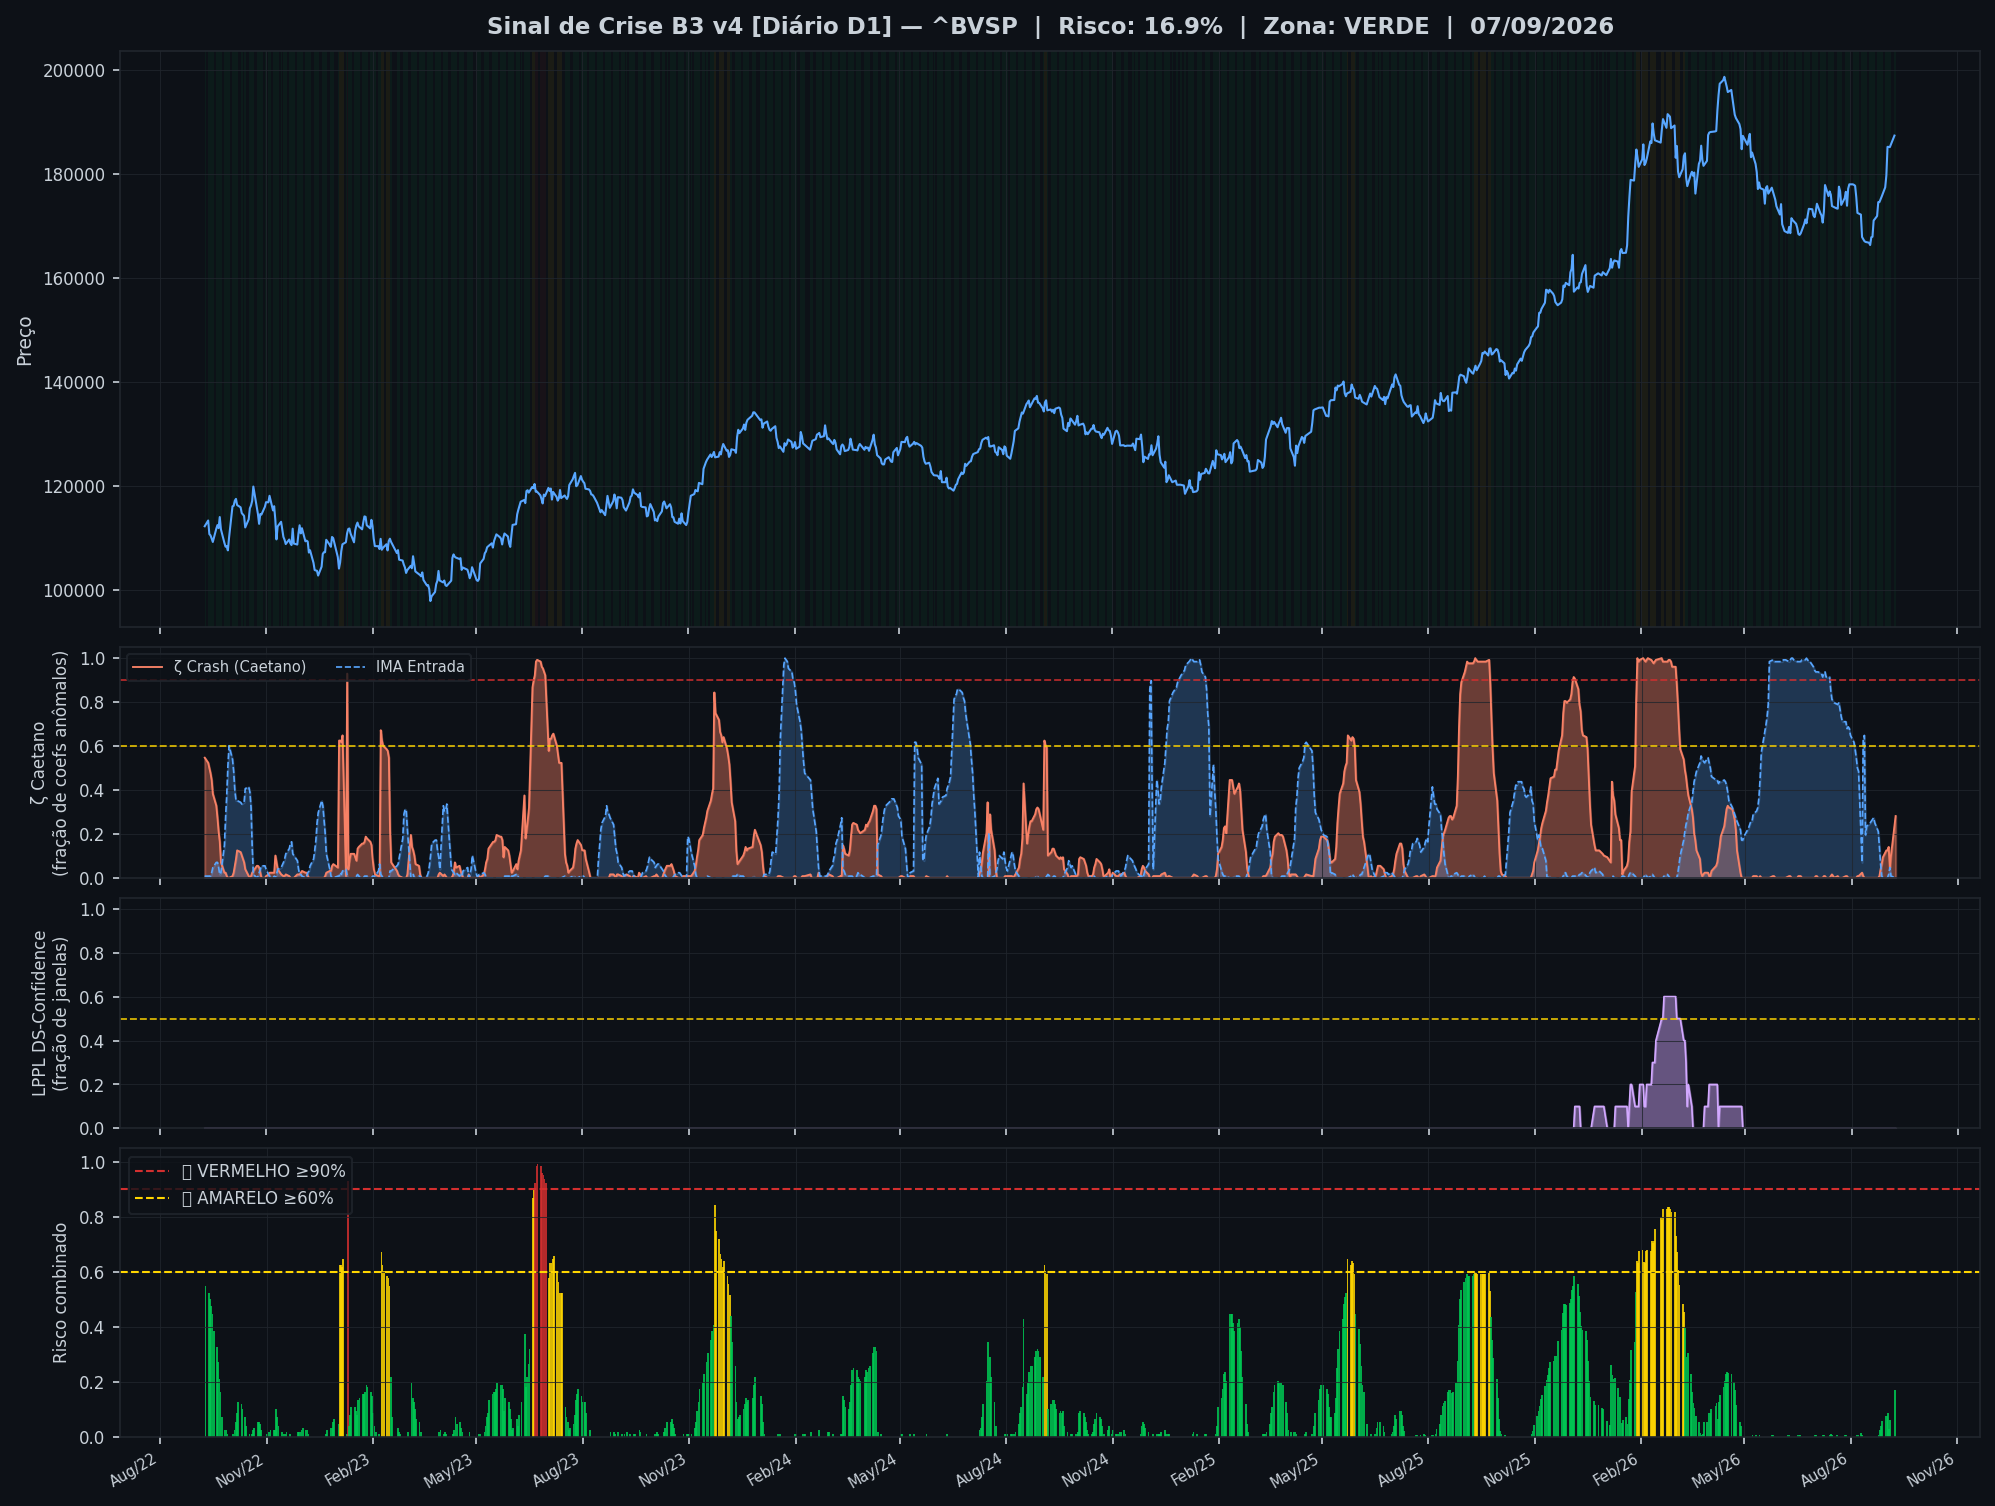
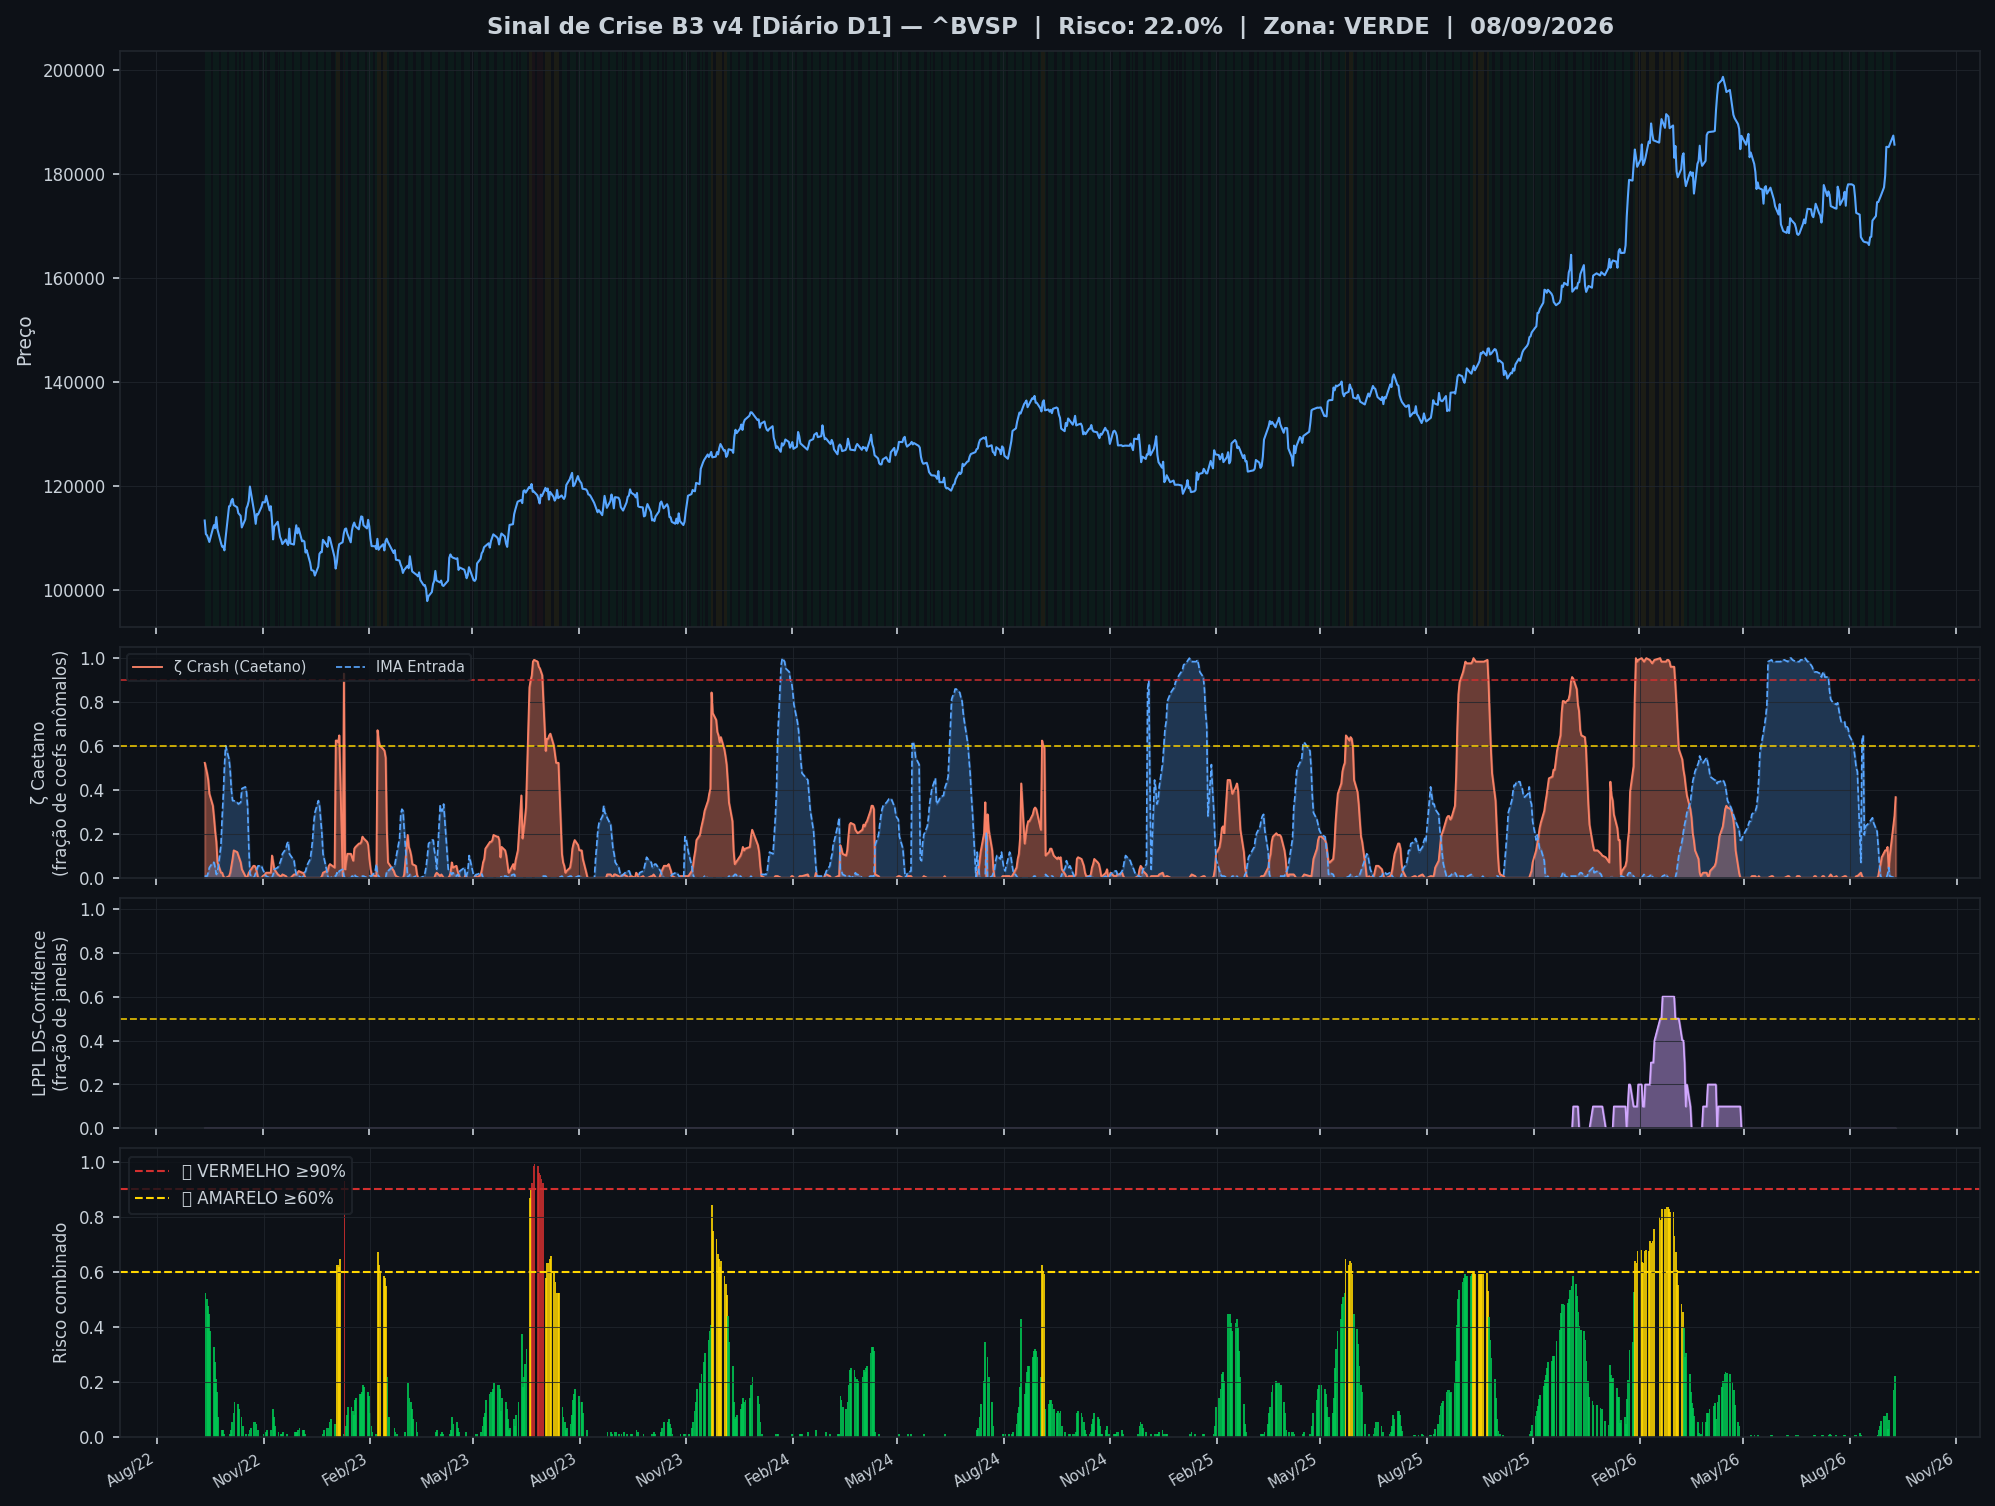
🤖 Auto: Sinal 09/09/2026 19:00

diff --git a/content/diario/2026-09-08.md b/content/diario/2026-09-08.md
@@ -1,0 +1,104 @@
+---
+title: "🟢 Diário 08/09/2026 — VERDE"
+date: 2026-09-09
+tags: [diario]
+---
+
+> [!success] 🟢 **VERDE** — Risco 22% · ▲ +5 p.p. vs leitura anterior
+> `████░░░░░░░░░░░░░░░░`
+> Mercado sem sinais relevantes de estresse.
+
+
+| Indicador | Valor |
+|---|---|
+| 🔴 ζ Crash — severidade da queda em curso | **37%** |
+| 🔵 ζ Entrada — estrutura de fundo | 0% |
+| 🫧 LPPL DS-Confidence | 0% |
+| 📊 Ibovespa | 185.629 pts |
+
+![Gráfico do sinal](../graficos/sinal_diario.png)
+
+## Últimos 30 pregões
+
+| Data | Zona | Risco | IMA Crash | Entrada | LPPL |
+|---|---|---|---|---|---|
+| 2026-09-08 21:00 | 🟢 VERDE | **22%** | 37% | 0% | 0% |
+| 2026-09-07 21:00 | 🟢 VERDE | **17%** | 28% | 0% | 0% |
+| 2026-09-03 21:00 | 🟢 VERDE | **6%** | 10% | 1% | 0% |
+| 2026-09-02 21:00 | 🟢 VERDE | **3%** | 5% | 5% | 0% |
+| 2026-09-01 21:00 | 🟢 VERDE | **8%** | 14% | 2% | 0% |
+| 2026-08-31 21:00 | 🟢 VERDE | **8%** | 12% | 0% | 0% |
+| 2026-08-30 21:00 | 🟢 VERDE | **8%** | 12% | 0% | 0% |
+| 2026-08-27 21:00 | 🟢 VERDE | **6%** | 9% | 0% | 0% |
+| 2026-08-26 21:00 | 🟢 VERDE | **4%** | 6% | 1% | 0% |
+| 2026-08-25 21:00 | 🟢 VERDE | **2%** | 4% | 6% | 0% |
+| 2026-08-24 21:00 | 🟢 VERDE | **0%** | 1% | 14% | 0% |
+| 2026-08-23 21:00 | 🟢 VERDE | **0%** | 0% | 21% | 0% |
+| 2026-08-20 21:00 | 🟢 VERDE | **0%** | 0% | 25% | 0% |
+| 2026-08-19 21:00 | 🟢 VERDE | **0%** | 0% | 27% | 0% |
+| 2026-08-18 21:00 | 🟢 VERDE | **0%** | 0% | 27% | 0% |
+| 2026-08-17 21:00 | 🟢 VERDE | **0%** | 0% | 26% | 0% |
+| 2026-08-16 21:00 | 🟢 VERDE | **0%** | 0% | 25% | 0% |
+| 2026-08-13 21:00 | 🟢 VERDE | **0%** | 0% | 23% | 0% |
+| 2026-08-12 21:00 | 🟢 VERDE | **0%** | 0% | 20% | 0% |
+| 2026-08-11 21:00 | 🟢 VERDE | **0%** | 0% | 65% | 0% |
+| 2026-08-10 21:00 | 🟢 VERDE | **0%** | 1% | 62% | 0% |
+| 2026-08-09 21:00 | 🟢 VERDE | **1%** | 2% | 7% | 0% |
+| 2026-08-06 21:00 | 🟢 VERDE | **0%** | 1% | 48% | 0% |
+| 2026-08-05 21:00 | 🟢 VERDE | **0%** | 1% | 50% | 0% |
+| 2026-08-04 21:00 | 🟢 VERDE | **0%** | 0% | 55% | 0% |
+| 2026-08-03 21:00 | 🟢 VERDE | **0%** | 0% | 59% | 0% |
+| 2026-08-02 21:00 | 🟢 VERDE | **0%** | 0% | 62% | 0% |
+| 2026-07-30 21:00 | 🟢 VERDE | **0%** | 0% | 65% | 0% |
+| 2026-07-29 21:00 | 🟢 VERDE | **0%** | 0% | 68% | 0% |
+| 2026-07-28 21:00 | 🟢 VERDE | **0%** | 0% | 69% | 0% |
+
+## Monitor Multi-Ativo
+
+**0% dos ativos em tensão** (0🔴 0🟡) — quanto mais ativos disparam juntos, mais confiável o sinal.
+
+| Zona | Ativo | Setor | IMA Crash | IMA Entrada |
+|---|---|---|---|---|
+| 🟢 | **VALE** | Mineração | 37.5% | 24.2% |
+| 🟢 | **ITAUUNIBANCO** | Financeiro | 37.5% | 24.2% |
+| 🟢 | **PETROBRAS** | Petróleo | 37.5% | 24.2% |
+| 🟢 | **PETROBRAS** | Petróleo | 37.5% | 24.2% |
+| 🟢 | **AXIA ENERGIA** | Energia | 37.5% | 24.2% |
+| 🟢 | **SABESP** | Saneamento | 37.5% | 24.2% |
+| 🟢 | **BRADESCO** | Financeiro | 37.5% | 24.2% |
+| 🟢 | **B3** | Financeiro | 37.5% | 24.2% |
+| 🟢 | **ITAUSA** | Financeiro | 37.5% | 24.2% |
+| 🟢 | **WEG** | Industrial | 37.5% | 24.2% |
+| 🟢 | **BTGP BANCO** | Financeiro | 37.5% | 24.2% |
+| 🟢 | **EMBRAER** | Outros | 37.5% | 24.2% |
+| 🟢 | **BRASIL** | Financeiro | 37.5% | 24.2% |
+| 🟢 | **AMBEV S/A** | Consumo | 37.5% | 24.2% |
+| 🟢 | **ENEVA** | Energia | 37.5% | 24.2% |
+| 🟢 | **EQUATORIAL** | Energia | 37.5% | 24.2% |
+| 🟢 | **COPEL** | Energia | 37.5% | 24.2% |
+| 🟢 | **PRIO** | Petróleo | 37.5% | 24.2% |
+| 🟢 | **VIBRA** | Energia | 37.5% | 24.2% |
+| 🟢 | **ULTRAPAR** | Outros | 37.5% | 24.2% |
+| 🟢 | **REDE D OR** | Saúde | 37.5% | 24.2% |
+| 🟢 | **LOCALIZA** | Aluguel | 37.5% | 24.2% |
+| 🟢 | **GERDAU** | Siderurgia | 37.5% | 24.2% |
+| 🟢 | **SUZANO S.A.** | Papel/Celulose | 37.5% | 24.2% |
+| 🟢 | **RAIADROGASIL** | Outros | 37.5% | 24.2% |
+| 🟢 | **USD/BRL** | Câmbio | 37.5% | 18.8% |
+
+![Monitor multi-ativo](../graficos/multi_diario.png)
+
+*Página atualizada em 09/09/2026 19:00 BRT (leitura da barra de 2026-09-08 BRT).*
+
+> [!info]- Como interpretar (clique para expandir)
+> - **ζ Crash**: fração dos coeficientes wavelet acima do corte (Caetano & Yoneyama 2009). Escala absoluta: ζ=0,90 = 90% dos coeficientes anômalos — historicamente, quedas com ζ≥0,90 foram mais fundas e mais longas. **Mede a severidade do movimento em curso, não prevê o início da queda.**
+> - **ζ Entrada**: coeficientes negativos além do corte — estrutura de fundo, possível região de compra.
+> - **LPPL DS-Confidence**: fração de janelas (60–504 pregões) em que o modelo de bolha de Sornette produz um ajuste válido. 30% já é relevante; acima de 50% é forte evidência de estrutura de bolha.
+> - **Zonas com histerese**: o sinal só muda de zona ao cruzar o limiar de entrada, e só volta ao cruzar o de saída — evita flip-flop diário.
+
+
+---
+*Sinal de Crise B3 v4 · IMA Wavelet ([Caetano & Yoneyama, Physica-A 2007](https://doi.org/10.1016/j.physa.2007.03.054)) + LPPL DS-Confidence (Sornette, ETH-Zurich) · [Metodologia](metodologia) · [Histórico](historico)*
+
+> [!quote]- Aviso
+> Estudo acadêmico. Não constitui recomendação de investimento.

diff --git a/content/index.md b/content/index.md
@@ -8,19 +8,19 @@ tags: [home]
 
 Monitoramento diário e intraday do Ibovespa — **IMA Wavelet** (Prof. Marco Antonio Leonel Caetano, ITA/INSPER) + **LPPL DS-Confidence** (Prof. Didier Sornette, ETH-Zurich).
 
-*Última atualização: 09/09/2026 17:30 BRT · ^BVSP · Intraday 15min · v4*
+*Última atualização: 09/09/2026 19:00 BRT · ^BVSP · Diário D1 · v4*
 
-> [!success] 🟢 **VERDE** — Risco 0% · ＝ +0 p.p. vs leitura anterior
-> `░░░░░░░░░░░░░░░░░░░░`
+> [!success] 🟢 **VERDE** — Risco 22% · ▲ +5 p.p. vs leitura anterior
+> `████░░░░░░░░░░░░░░░░`
 > Mercado sem sinais relevantes de estresse.
 
 
 | Indicador | Valor |
 |---|---|
-| 🔴 ζ Crash — severidade da queda em curso | **0%** |
-| 🔵 ζ Entrada — estrutura de fundo | 97% |
+| 🔴 ζ Crash — severidade da queda em curso | **37%** |
+| 🔵 ζ Entrada — estrutura de fundo | 0% |
 | 🫧 LPPL DS-Confidence | 0% |
-| 📊 Ibovespa | 185.609 pts |
+| 📊 Ibovespa | 185.629 pts |
 
 **Multi-ativo:** 0% em tensão (0🔴 0🟡 de 26 ativos)
 
@@ -32,8 +32,13 @@ Monitoramento diário e intraday do Ibovespa — **IMA Wavelet** (Prof. Marco An
 
 | Data | Zona | Risco | IMA | LPPL |
 |---|---|---|---|---|
-| [09 Sep 2026](diario/2026-09-09) | 🟢 VERDE | **0%** | 0% | 0% |
-| [08 Sep 2026](diario/2026-09-08) | 🟡 AMARELO | **49%** | 49% | 0% |
+| [08 Sep 2026](diario/2026-09-08) | 🟢 VERDE | **22%** | 37% | 0% |
+| [07 Sep 2026](diario/2026-09-07) | 🟢 VERDE | **17%** | 28% | 0% |
+| [03 Sep 2026](diario/2026-09-03) | 🟢 VERDE | **6%** | 10% | 0% |
+| [02 Sep 2026](diario/2026-09-02) | 🟢 VERDE | **3%** | 5% | 0% |
+| [01 Sep 2026](diario/2026-09-01) | 🟢 VERDE | **8%** | 14% | 0% |
+| [31 Aug 2026](diario/2026-08-31) | 🟢 VERDE | **8%** | 12% | 0% |
+| [30 Aug 2026](diario/2026-08-30) | 🟢 VERDE | **8%** | 12% | 0% |
 
 ## Navegação
 

diff --git a/content/historico.md b/content/historico.md
@@ -7,6 +7,7 @@ tags: [historico]
 
 | Data | Modo | Zona | Risco | IMA | LPPL |
 |---|---|---|---|---|---|
+| 2026-09-08 | diario | 🟢 VERDE | 22% | 37% | 0% |
 | 2026-09-09 16:45 | intraday | 🟢 VERDE | 0% | 0% | 0% |
 | 2026-09-09 16:30 | intraday | 🟢 VERDE | 0% | 0% | 0% |
 | 2026-09-09 16:15 | intraday | 🟢 VERDE | 0% | 0% | 0% |
